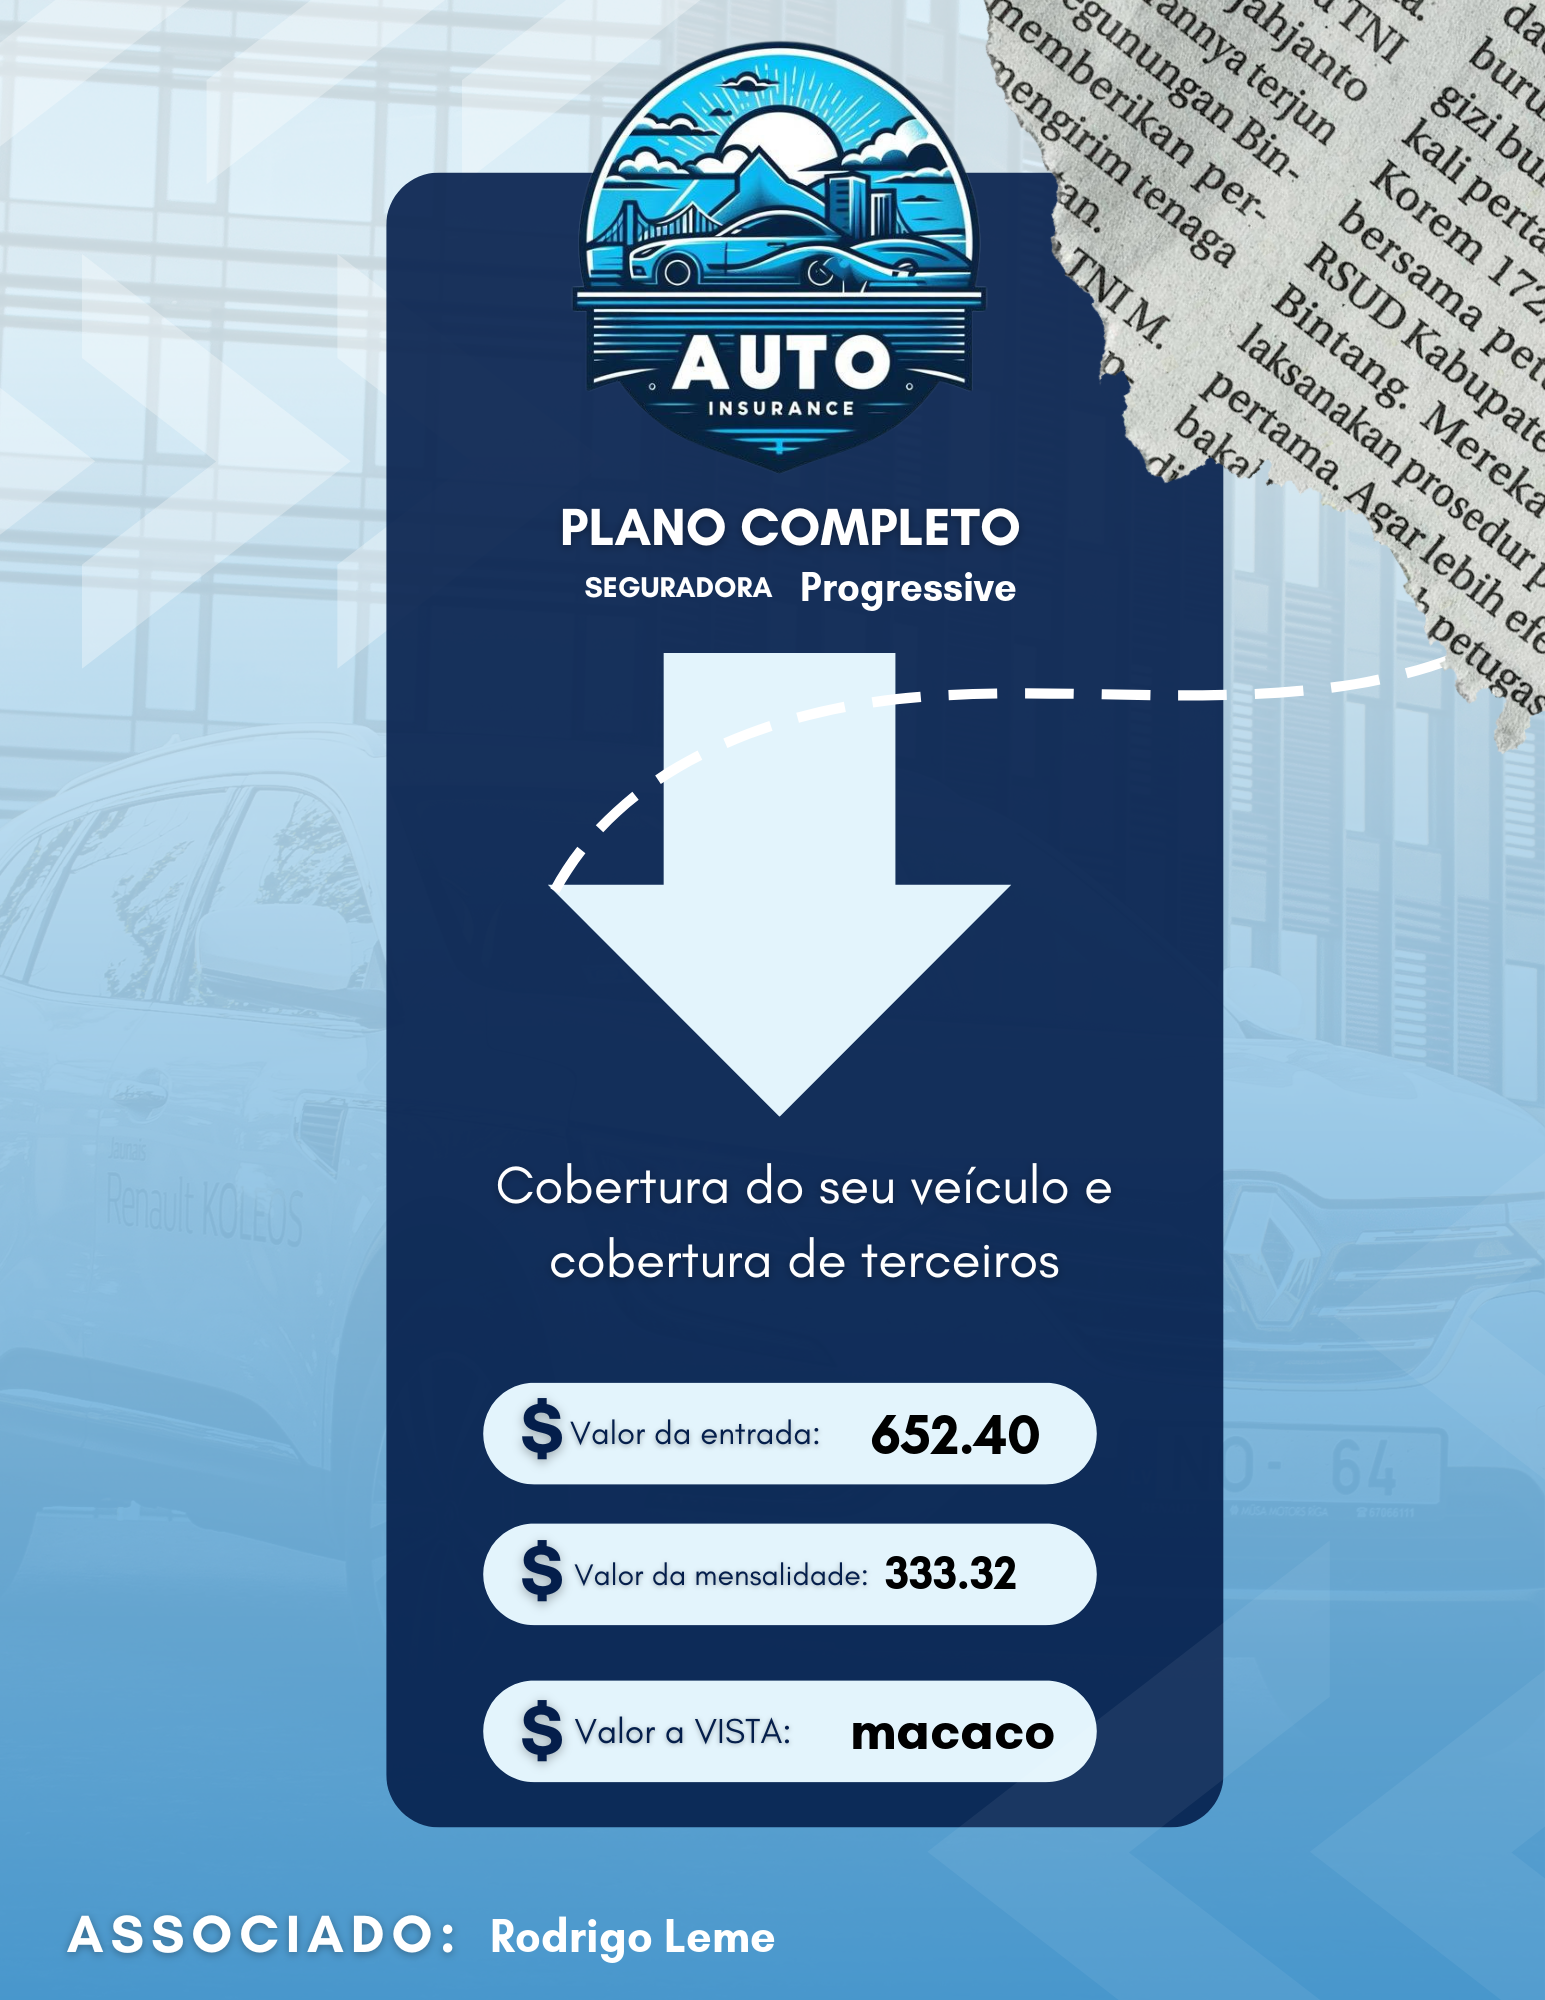
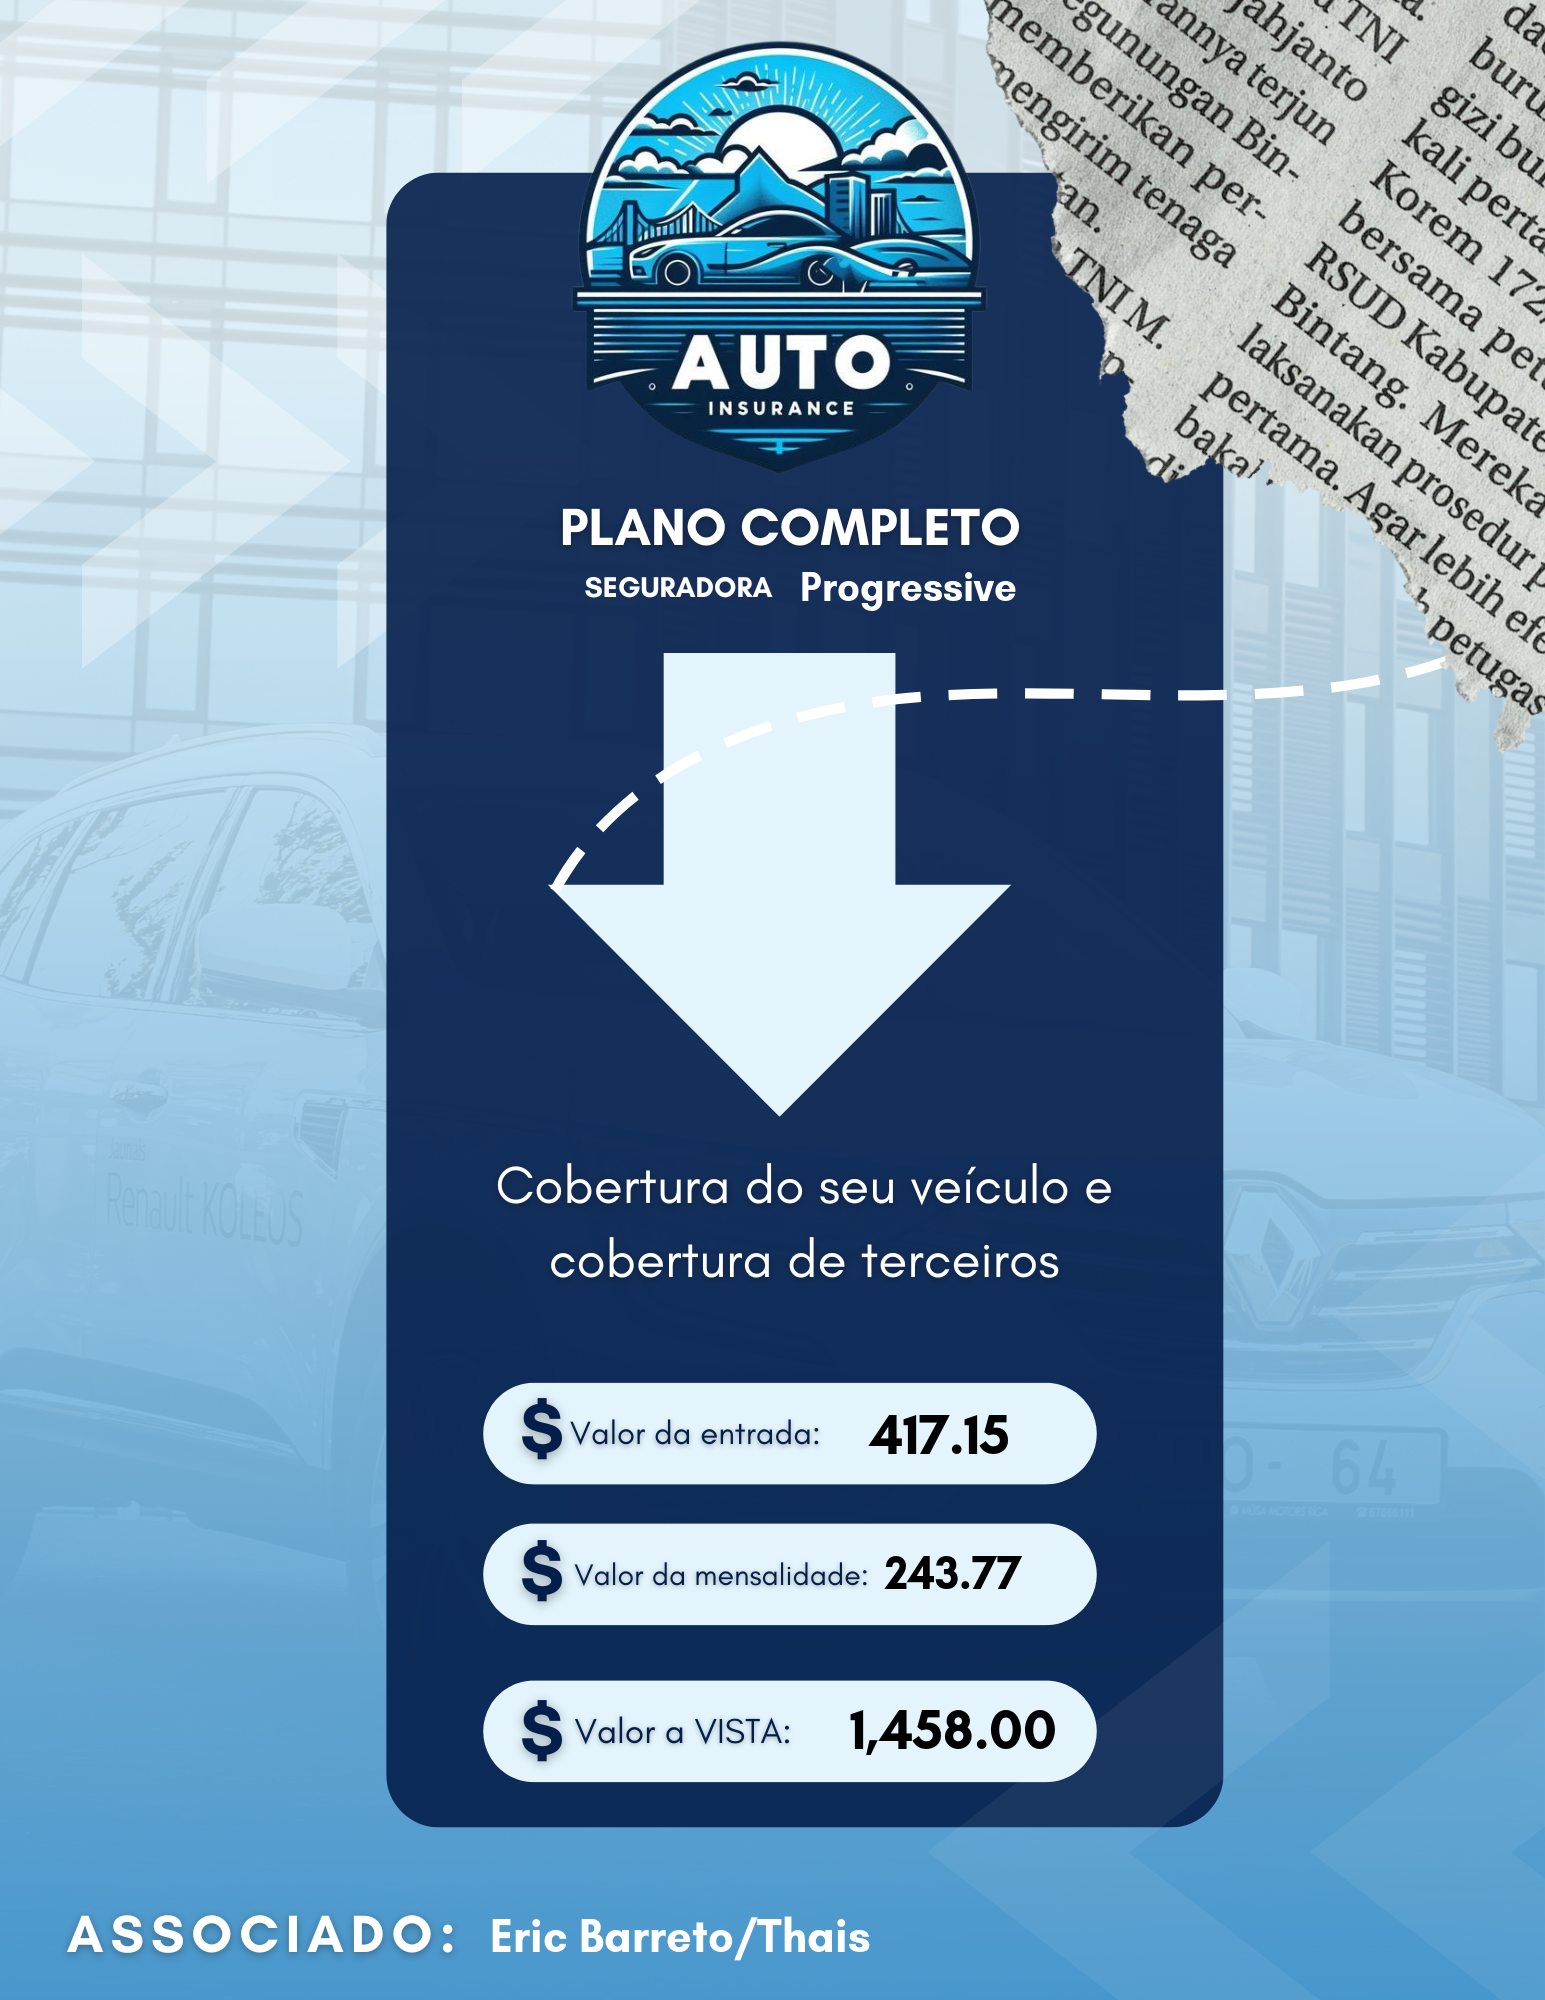
Taxa de 320 dolares automatica para a cotação

diff --git a/app/templates/cotacao.html b/app/templates/cotacao.html
@@ -100,45 +100,44 @@
             </div>
     </div>
     <div class="content-section">
-    {% for cotacao in cotacoes %}
-
-
-        <div class="form-group">
-                <label for="genero">{{ form_seguradora.seguradora.label }}</label>
-                <div class="d-flex">
-                    {% for subfield in form_seguradora.seguradora %}
-                    <div class="form-check form-check-inline">
-                        {{ subfield(class="form-check-input") }}
-                        <label class="form-check-label" for="{{ subfield.id }}">{{ subfield.label.text }}</label>
-                    </div>
-                    {% endfor %}
-                </div>
-            </div>
-
-    <div class="row py-3">
-        
-        <div class="col-md-3 mb-4">
-            <div class="card h-100">
-                <div class="card-body">
-                    <h5 class="card-title">{{ cotacao.nome }}</h5>
-                    <p><strong>Gênero:</strong> {{ cotacao.genero }}</p>
-                    <p><strong>Documento:</strong> {{ cotacao.documento }}</p>
-                    <p><strong>Endereço:</strong> {{ cotacao.endereco }}</p>
-                    <p><strong>Data de Nascimento:</strong> {{ cotacao.data_nascimento }}</p>
-                    <div class="d-flex gap-2">
-                        
-                        <form id="cotar-form-{{ cotacao.id }}" action="{{ url_for('cotar.cotar', cotacao_id=cotacao.id) }}" method="POST">
-                            <input type="hidden" name="seguradora" id="seguradora-input-{{ cotacao.id }}">
-                            <button type="button" class="btn btn-primary" onclick="submitCotarForm({{ cotacao.id }})">Cotar</button>
-                        </form>
-                        <form action="{{ url_for('apagar.apagarCotacao', cotacao_id=cotacao.id) }}" method="POST">
-                            <button type="submit" class="btn btn-danger">Apagar Cotação</button>
-                        </form>
+        <div class="row py-3">
+            {% for cotacao in cotacoes %}
+            
+            <div class="col-md-3 mb-4">
+                <div class="form-group">
+                    <label for="genero">{{ form_seguradora.seguradora.label }}</label>
+                    <div class="d-flex">
+                        {% for subfield in form_seguradora.seguradora %}
+                        <div class="form-check form-check-inline">
+                            {{ subfield(class="form-check-input") }}
+                            <label class="form-check-label" for="{{ subfield.id }}">{{ subfield.label.text }}</label>
+                        </div>
+                        {% endfor %}
                     </div>
                 </div>
+
+                <div class="card h-100">
+                    <div class="card-body">
+                        <h5 class="card-title">{{ cotacao.nome }}</h5>
+                        <p><strong>Gênero:</strong> {{ cotacao.genero }}</p>
+                        <p><strong>Documento:</strong> {{ cotacao.documento }}</p>
+                        <p><strong>Endereço:</strong> {{ cotacao.endereco }}</p>
+                        <p><strong>Data de Nascimento:</strong> {{ cotacao.data_nascimento }}</p>
+                        <div class="d-flex gap-2">
+                            
+                            <form id="cotar-form-{{ cotacao.id }}" action="{{ url_for('cotar.cotar', cotacao_id=cotacao.id) }}" method="POST">
+                                <input type="hidden" name="seguradora" id="seguradora-input-{{ cotacao.id }}">
+                                <button type="button" class="btn btn-primary" onclick="submitCotarForm({{ cotacao.id }})">Cotar</button>
+                            </form>
+                            <form action="{{ url_for('apagar.apagarCotacao', cotacao_id=cotacao.id) }}" method="POST">
+                                <button type="submit" class="btn btn-danger">Apagar Cotação</button>
+                            </form>
+                        </div>
+                    </div>
+                </div>
             </div>
+            {% endfor %}
+            
         </div>
-        {% endfor %}
-        
     </div>
 {% endblock %}

diff --git a/app/templates/base.html b/app/templates/base.html
@@ -12,8 +12,8 @@
     <!-- Header -->
     <header class="d-flex justify-content-center py-3">
         <ul class="nav nav-pills">
-          <li class="nav-item"><a href="#" class="nav-link active" aria-current="page">Home</a></li>
-          <li class="nav-item"><a href="/" class="nav-link">Cotação</a></li>
+          <li class="nav-item"><a href="/" class="nav-link active" aria-current="page">Cotação</a></li>
+          <li class="nav-item"><a href="{{url_for('colocarPreco.colocarPreco')}}" class="nav-link">Preço</a></li>
           <li class="nav-item"><a href="#" class="nav-link">Suporte</a></li>
           <li class="nav-item"><a href="#" class="nav-link">RTA</a></li>
         </ul>

diff --git a/app/services/cotacao_service.py b/app/services/cotacao_service.py
@@ -1,4 +1,4 @@
-from app.util.data_funcoes import decodificar_vin, formatar_data, separar_nome, separar_documento, separar_endereco, veiculo_vin
+from app.util.data_funcoes import decodificar_vin, formatar_data, separar_nome, separar_documento, separar_endereco, veiculo_vin, formatar_com_virgula
 def extrair_dados_formulario(cotacao_form):
     return {
         "genero": cotacao_form.genero.data,
@@ -43,14 +43,20 @@ def processar_cotacao(primeiro):
 
 
 def processar_preco_quitado(preco_form):
-    entrada_basico = preco_form.entrada_basico.data
+    entrada_basico = float(preco_form.entrada_basico.data.replace(",", "")) + 320.00
     mensal_basico = preco_form.mensal_basico.data
-    valor_total_basico = preco_form.valor_total_basico.data
-    entrada_completo = preco_form.entrada_completo.data
+    valor_total_basico = float(preco_form.valor_total_basico.data.replace(",", "")) + 320.00
+    entrada_completo = float(preco_form.entrada_completo.data.replace(",", "")) + 320.00
     mensal_completo = preco_form.mensal_completo.data
-    valor_total_completo = preco_form.valor_total_completo.data
+    valor_total_completo = float(preco_form.valor_total_completo.data.replace(",", "")) + 320.00
     nome = preco_form.nome.data
     seguradora = preco_form.seguradora.data
+
+    entrada_basico = formatar_com_virgula(entrada_basico)
+    valor_total_basico = formatar_com_virgula(valor_total_basico)
+    entrada_completo = formatar_com_virgula(entrada_completo)
+    valor_total_completo = formatar_com_virgula(valor_total_completo)
+    
     return {
         "entrada_basico": entrada_basico,
         "mensal_basico": mensal_basico,
@@ -63,11 +69,13 @@ def processar_preco_quitado(preco_form):
     }
 
 def processar_preco_financiado(preco_form):
-    entrada_completo = preco_form.entrada_completo.data
+    entrada_completo = float(preco_form.entrada_completo.data.replace(",", "")) + 320.00
     mensal_completo = preco_form.mensal_completo.data
-    valor_total_completo = preco_form.valor_total_completo.data
+    valor_total_completo = float(preco_form.valor_total_completo.data.replace(",", "")) + 320.00
     nome = preco_form.nome.data
     seguradora = preco_form.seguradora.data
+    entrada_completo = formatar_com_virgula(entrada_completo)
+    valor_total_completo = formatar_com_virgula(valor_total_completo)
     return {
         "entrada_completo": entrada_completo,
         "mensal_completo": mensal_completo,

diff --git a/app/services/allstate_services.py b/app/services/allstate_services.py
@@ -1,7 +1,7 @@
 import time
 class Allstate():
     
-    def cotacao(self, playwright, zipcode, first_name, last_name, email, data_nascimento, rua, cidade, apt=None, lista_vin=None, genero=None, estado_documento=None, tempo_de_seguro=None, tempo_no_endereco=None, financiado=None, tempo_com_veiculo=None):
+    def cotacao(self, playwright, zipcode, first_name, last_name, email, data_nascimento, rua, cidade, apt, lista_vin=None, genero=None, estado_documento=None, tempo_de_seguro=None, tempo_no_endereco=None, financiado=None, tempo_com_veiculo=None):
         self.browser = playwright.chromium.launch(
             headless=False,
             args=[
@@ -36,7 +36,7 @@ class Allstate():
         self.page.get_by_label("Date of birth").fill(data_nascimento)
         self.page.get_by_label("Street address").click()
         self.page.get_by_label("Street address").fill(rua)
-        if self.apt != None:
+        if apt != None:
             self.page.get_by_label("Apt/unit").click()
             self.page.get_by_label("Apt/unit").fill(apt)
         self.page.get_by_role("button", name="next").click()

diff --git a/app/services/progressive_service.py b/app/services/progressive_service.py
@@ -85,10 +85,10 @@ class Progressive():
         for veiculo in lista_vin:
             self.page.get_by_role("link", name="Enter by VIN").click()
             self.page.get_by_label("Vehicle Identification Number").fill(veiculo)
-            if self.nova_interface:
-                self.page.get_by_label("Vehicle use", exact=True).select_option("1")
-            else:
-                self.page.get_by_label("Vehicle use", exact=True).select_option("1")
+            try:
+                self.page.get_by_label("Learn more aboutVehicle use*").select_option("1")
+            except:
+                pass
             time.sleep(2)
 
             if financiado == "Financiado":

diff --git a/app/util/data_funcoes.py b/app/util/data_funcoes.py
@@ -69,3 +69,17 @@ def decodificar_vin(vin):
         return lista_vin
     except Exception as e:
         raise ValueError(f"Verifique se o vin number esta correto: {e}")
+
+
+
+def formatar_com_virgula(numero):
+    # Garante que seja string com parte decimal sempre visível (duas casas)
+    numero_str = f"{float(numero):.2f}"
+    
+    # Separa parte inteira e decimal
+    parte_inteira, parte_decimal = numero_str.split('.')
+
+    if len(parte_inteira) > 3:
+        parte_inteira = f"{parte_inteira[0]},{parte_inteira[1:]}"
+    
+    return f"{parte_inteira}.{parte_decimal}"

diff --git a/app/services/geico_services.py b/app/services/geico_services.py
@@ -40,7 +40,7 @@ class Geico():
     #pagina endereco
     def pagina_endereco(self, rua, cidade, apt):   
         self.page.get_by_placeholder("Enter a location").fill(f"{rua}, {cidade}")
-        if self.apt != None:
+        if apt != None:
             self.page.get_by_label("Apt #").click()
             self.page.get_by_label("Apt #").fill(apt)
             time.sleep(2)

diff --git a/ToDo.md b/ToDo.md
@@ -8,7 +8,6 @@ Garantir que todos os métodos utilizem **kwargs onde aplicável para maior flex
 2. Funcionalidades
 Implementar validações mais robustas nos formulários (PrecoForm_quitado, PrecoForm_financiado, etc.).
 Adicionar suporte a múltiplos idiomas (ex.: português e inglês) para mensagens e labels.
-Criar uma funcionalidade para exportar os dados gerados (ex.: imagens ou relatórios) em formatos como PDF ou CSV.
 Adicionar uma página de histórico para listar cotações anteriores salvas no banco de dados.
 Implementar autenticação e autorização para proteger rotas sensíveis.
 
@@ -40,7 +39,6 @@ Implementar cache para evitar chamadas repetidas a APIs externas (ex.: decodific
 Adicionar logs detalhados para monitorar o comportamento do sistema em produção.
 
 8. Segurança
-Proteger as chaves de API (ex.: Trello) usando variáveis de ambiente.
 Implementar validação de entrada para evitar ataques como SQL Injection ou XSS.
 Configurar HTTPS para proteger a comunicação entre o cliente e o servidor.
 
@@ -49,7 +47,6 @@ Criar um README detalhado com instruções de instalação, configuração e uso
 Adicionar exemplos de uso para cada funcionalidade principal.
 Documentar as dependências no requirements.txt e garantir que ele esteja atualizado.
 
-10. Funcionalidades Futuras
-Adicionar suporte para múltiplos usuários e perfis.
+10. Funcionalidades Futuras.
 Implementar uma API REST para permitir integração com outros sistemas.
 Criar um painel administrativo para gerenciar cotações, usuários e configurações.
